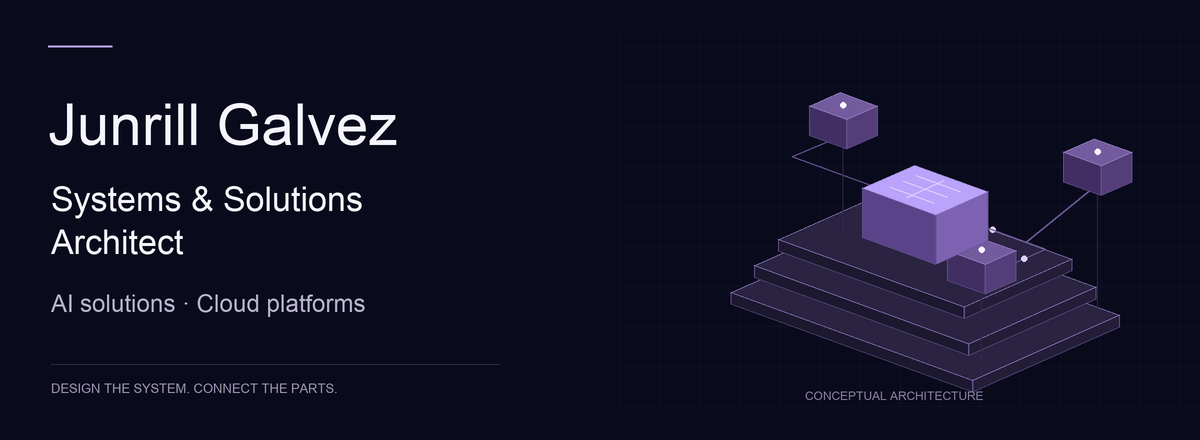
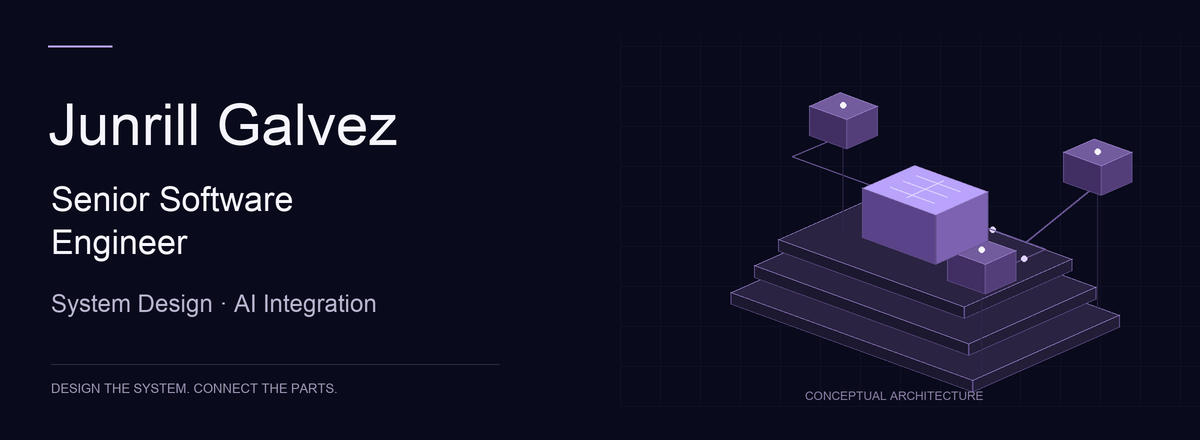
fix: position profile as senior software engineer

Changed region(s): [[0.0617, 0.4136, 0.3083, 0.5023], [0.0308, 0.65, 0.3083, 0.7091], [0.0308, 0.5023, 0.1542, 0.5909]]

diff --git a/tools/render_architecture.py b/tools/render_architecture.py
@@ -66,9 +66,9 @@ def render(phase, font):
         line([(620, y), (1198, y)], (16, 17, 39))
     line([(48, 46), (112, 46)], ACCENT, 2)
     text((48, 92), "Junrill Galvez", 58)
-    text((51, 180), "Systems & Solutions", 34)
-    text((51, 223), "Architect", 34)
-    text((51, 290), "AI solutions · Cloud platforms", 24, (185, 181, 207))
+    text((51, 180), "Senior Software", 34)
+    text((51, 223), "Engineer", 34)
+    text((51, 290), "System Design · AI Integration", 24, (185, 181, 207))
     line([(51, 364), (499, 364)], (45, 43, 70))
     text((51, 381), "DESIGN THE SYSTEM. CONNECT THE PARTS.", 13, (157, 150, 181))
 

diff --git a/docs/profile-maintenance.md b/docs/profile-maintenance.md
@@ -1,12 +1,12 @@
 # Profile design and maintenance
 
-Updated 17 October 2026. Goal: a professional GitHub profile that matches [the portfolio](https://junrillg.pages.dev/) and focuses on systems architecture, solutions architecture, and practical AI solutions.
+Updated 17 October 2026. Goal: a professional GitHub profile that matches [the portfolio](https://junrillg.pages.dev/), with the title **Senior Software Engineer** and focus **System Design & AI Integration**.
 
 The profile uses the portfolio’s midnight `#090a1b`, lavender `#b9a3fb`, and light `#f6f5fd` palette. Its 3D architecture diagram is conceptual, not a product screenshot. Interactive Three.js stays on the portfolio because GitHub sanitizes scripts and styling in README content. The GIF supplies motion within those constraints; `<picture>` selects a still image for reduced-motion preferences.
 
 Reference patterns reviewed: [Brittany Chiang](https://github.com/bchiang7), [Anurag Hazra](https://github.com/anuraghazra), and [Sindre Sorhus](https://github.com/sindresorhus). Adopt concise positioning, selected work evidence, a readable technology summary, and a clear portfolio link. Avoid badge walls, fragile external statistics, and unsupported project claims. Platform constraints: [GitHub’s rendering pipeline](https://github.com/github/markup), [profile README documentation](https://docs.github.com/en/account-and-profile/how-tos/profile-customization/managing-your-profile-readme), and [GitHub Pages user sites](https://docs.github.com/en/pages/getting-started-with-github-pages/what-is-github-pages).
 
-The role line describes the current focus. Career duration, cloud AI migration savings, deployment times, and platform scale come from the supplied résumé and published portfolio stories. The 25,000+ user figure is dated to 2020 and describes the platform. No former employer names, private contact details, original résumé, invented testimonials, or invented projects are published.
+The role line uses the résumé’s Senior Software Engineer title; the separate focus line describes system design and AI integration. Career duration, cloud AI migration savings, deployment times, and platform scale come from the supplied résumé and published portfolio stories. The 25,000+ user figure is dated to 2020 and describes the platform. No former employer names, private contact details, original résumé, invented testimonials, or invented projects are published.
 
 ## Artwork
 
@@ -19,10 +19,12 @@ python3 tools/render_architecture.py
 
 The default output is `assets/`; `--output DIRECTORY` changes it. `--font FILE` supplies a TrueType/OpenType font; otherwise the renderer checks installed Arial/DejaVu Sans and falls back to Pillow’s font. The script checks PNG dimensions, GIF dimensions, 80 frames, 70ms frame timing, infinite looping, periodic projection, and a 3 MiB GIF ceiling. Keep the PNG and GIF at 1200 × 440 and regenerate together.
 
+Current correction verified locally on 17 October 2026: artwork reads “Senior Software Engineer” with “System Design · AI Integration.” PNG: 86,669 bytes; GIF: 907,436 bytes. Both remain 1200 × 440; all renderer self-checks pass (80 frames, 5.6-second loop). The still image was visually inspected for text fit and unchanged 3D composition. Live GitHub verification is pending publication.
+
 The primary website remains `junrillg.pages.dev`. `junrillg.github.io` redirects to it, preventing duplicate portfolios. A personal custom domain can replace the primary address later; no domain purchase or DNS changes are required for this update.
 
-## Publication verification
+## Publication history
 
-Published 17 October 2026. Actual GitHub profile rendering verified on desktop (1440px) and mobile (390px). Artwork preserves its 1200:440 aspect ratio without a fixed HTML height. The reduced-motion preference selects the PNG; default motion selects the GIF. Asset self-checks pass: 80 frames at 70ms, stable text, moving 3D scene, 902,513-byte GIF. The portfolio link loads the revised architecture positioning, and the GitHub Pages entry point redirects there.
+Earlier publication on 17 October 2026: actual GitHub profile rendering verified on desktop (1440px) and mobile (390px). Artwork preserves its 1200:440 aspect ratio without a fixed HTML height. The reduced-motion preference selects the PNG; default motion selects the GIF. Earlier asset self-checks passed: 80 frames at 70ms, stable text, moving 3D scene. The portfolio link loaded the prior positioning, and the GitHub Pages entry point redirected there. This historical browser verification does not verify the current positioning correction.
 
-The account sidebar bio remains unchanged because the available CLI token lacks `user` scope and the review browser is signed out. The repository README and repository description carry the requested role positioning.
+The account sidebar bio remained unchanged because the available CLI token lacked `user` scope and the review browser was signed out. Current repository-description and live-publication verification are pending for the corrected positioning.

diff --git a/README.md b/README.md
@@ -1,11 +1,13 @@
 <a href="https://junrillg.pages.dev/">
   <picture>
     <source media="(prefers-reduced-motion: reduce)" srcset="assets/architecture-still.png">
-    <img src="assets/architecture-motion.gif" alt="Junrill Galvez — Systems and Solutions Architect. Connected layers illustrate applications, services, data, and AI." width="1200">
+    <img src="assets/architecture-motion.gif" alt="Junrill Galvez — Senior Software Engineer. Connected layers illustrate system design and AI integration." width="1200">
   </picture>
 </a>
 
-## Systems Architect · Solutions Architect · AI Solutions
+## Senior Software Engineer
+
+**System Design & AI Integration**
 
 I turn business requirements into clear system boundaries, connected platforms, and practical AI workflows. I bring **12+ years of hands-on engineering** and **9+ years leading teams**, from client discovery through production delivery.
 
@@ -15,9 +17,9 @@ I turn business requirements into clear system boundaries, connected platforms, 
 
 | Focus | What I bring |
 | --- | --- |
-| Systems architecture | Domain modeling, service boundaries, APIs, data platforms, and independently testable components. |
-| Solutions architecture | Translate business needs into technical decisions, connect product workflows, and guide teams from scoping to delivery. |
-| AI solutions | LLM integration, structured data extraction, workflow automation, and managed cloud AI with AWS Bedrock. |
+| System design | Domain modeling, service boundaries, APIs, data platforms, and independently testable components. |
+| Technical delivery | Translate business needs into technical decisions, connect product workflows, and guide teams from scoping to delivery. |
+| AI integration | LLM integration, structured data extraction, workflow automation, and managed cloud AI with AWS Bedrock. |
 | Cloud & delivery | AWS, Kubernetes, Terraform, containerized deployments, and CI/CD. |
 
 ### Selected engineering outcomes
